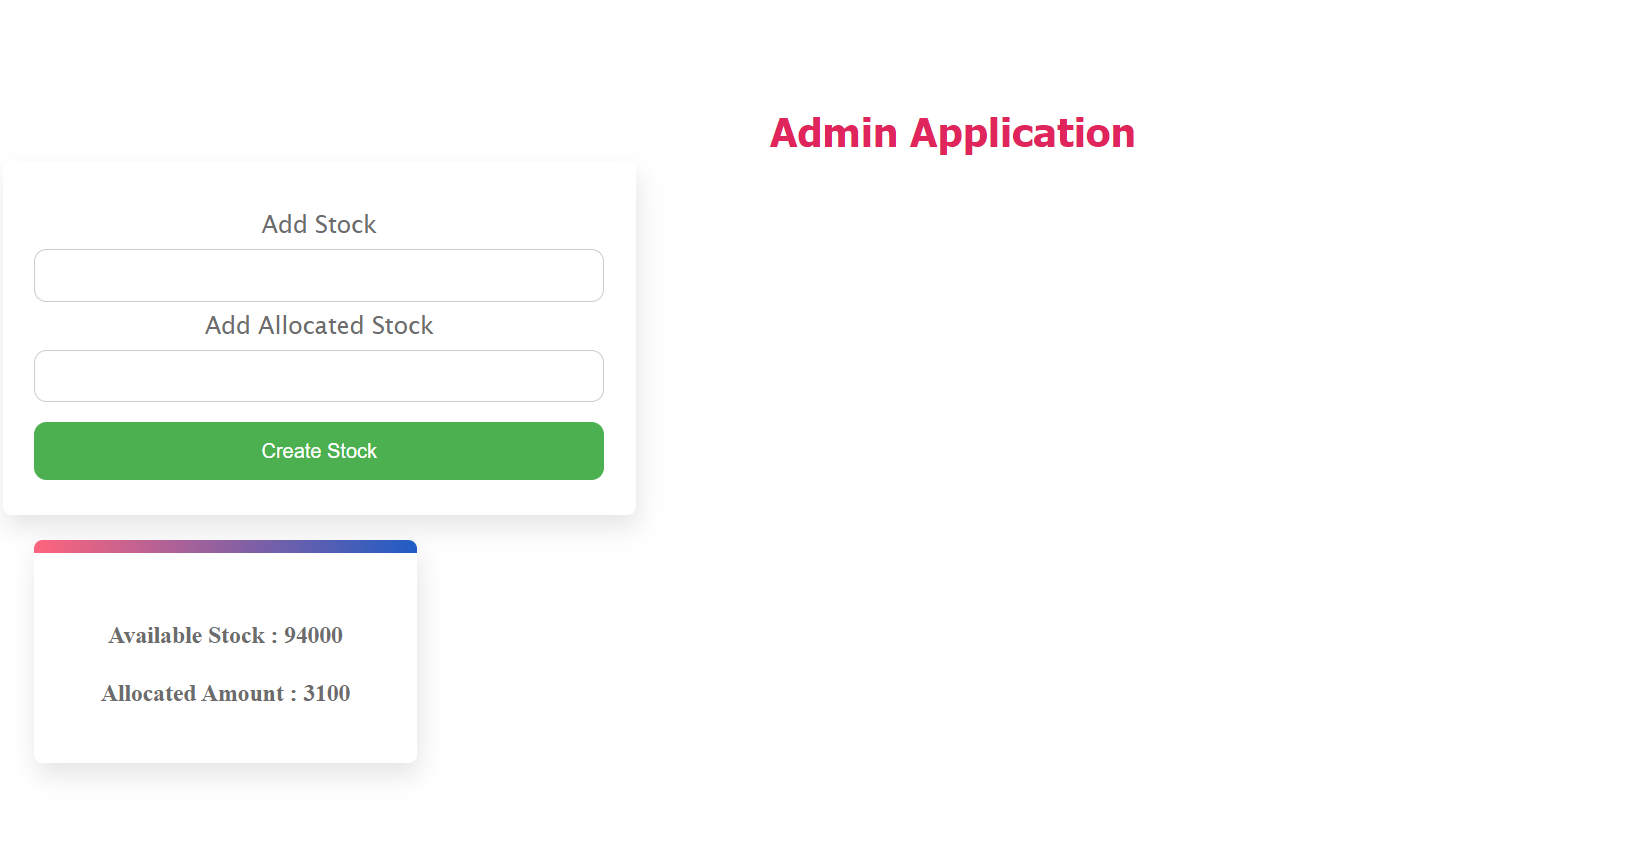
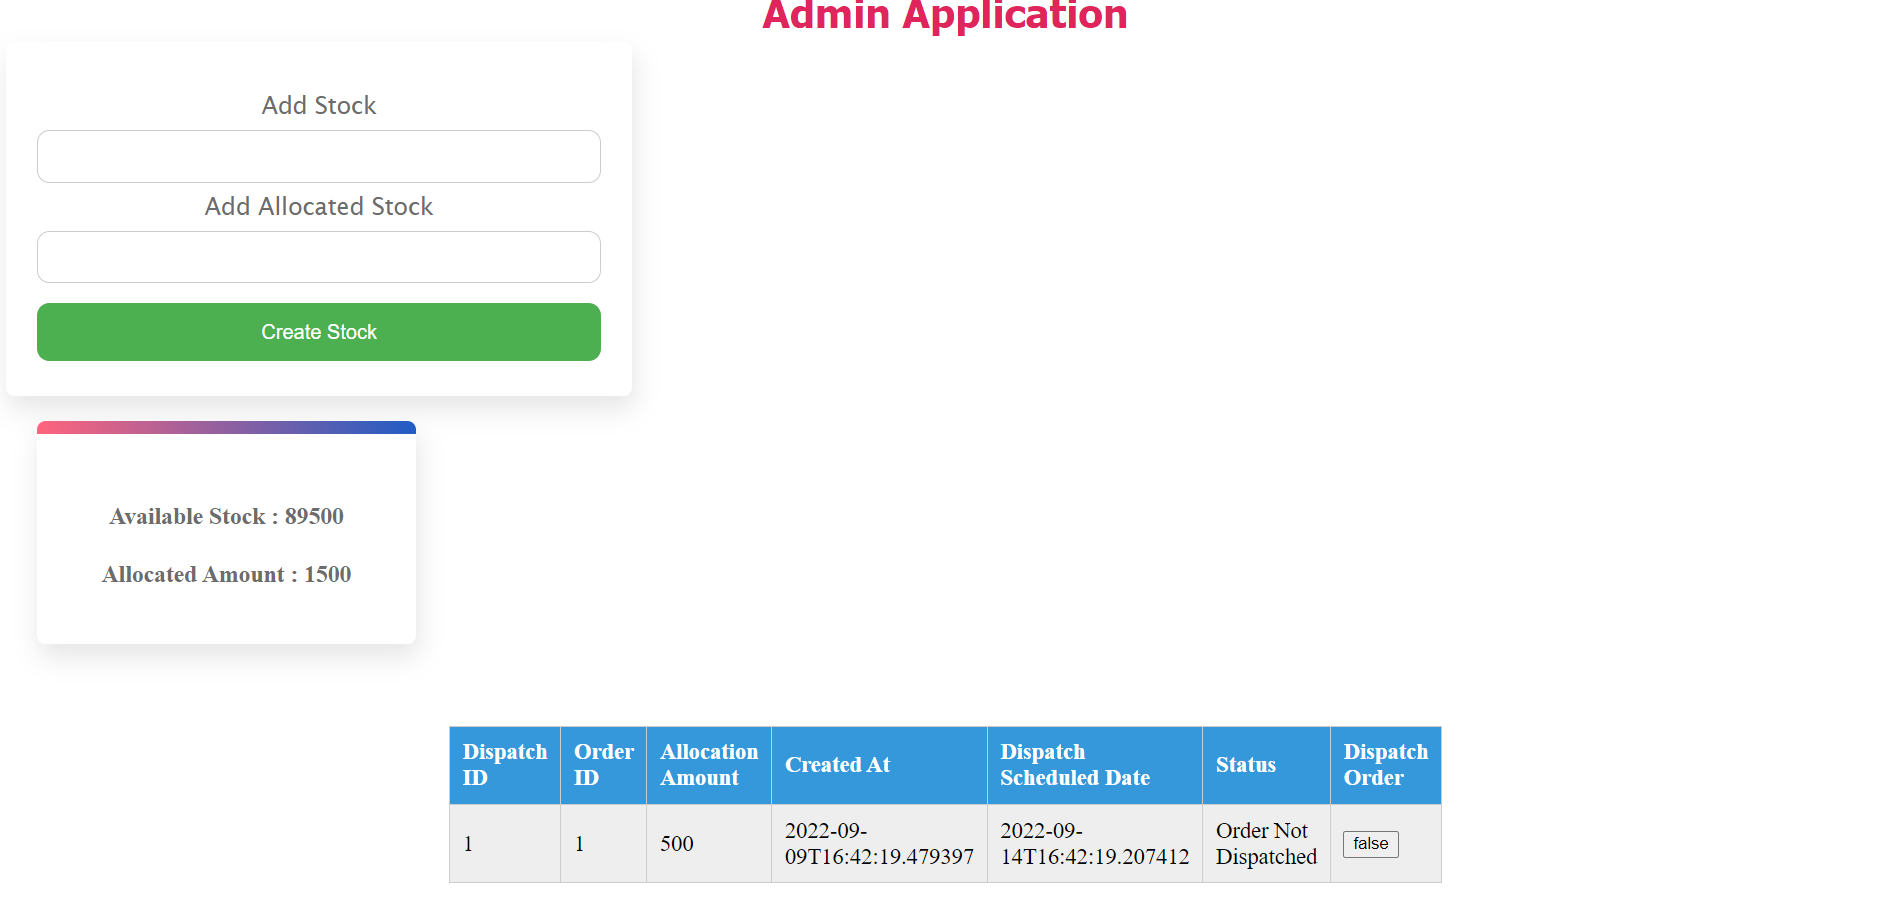
Added Table for See Orders

diff --git a/FrontEndUI/AdminUI/src/app/orders/orders.component.css b/FrontEndUI/AdminUI/src/app/orders/orders.component.css
@@ -1,0 +1,76 @@
+table { 
+	width: 750px; 
+	border-collapse: collapse; 
+	margin:50px auto;
+	}
+
+/* Zebra striping */
+tr:nth-of-type(odd) { 
+	background: #eee; 
+	}
+
+th { 
+	background: #3498db; 
+	color: white; 
+	font-weight: bold; 
+	}
+
+td, th { 
+	padding: 10px; 
+	border: 1px solid #ccc; 
+	text-align: left; 
+	font-size: 18px;
+	}
+
+/* 
+Max width before this PARTICULAR table gets nasty
+This query will take effect for any screen smaller than 760px
+and also iPads specifically.
+*/
+@media 
+only screen and (max-width: 760px),
+(min-device-width: 768px) and (max-device-width: 1024px)  {
+
+	table { 
+	  	width: 100%; 
+	}
+
+	/* Force table to not be like tables anymore */
+	table, thead, tbody, th, td, tr { 
+		display: block; 
+	}
+	
+	/* Hide table headers (but not display: none;, for accessibility) */
+	thead tr { 
+		position: absolute;
+		top: -9999px;
+		left: -9999px;
+	}
+	
+	tr { border: 1px solid #ccc; }
+	
+	td { 
+		/* Behave  like a "row" */
+		border: none;
+		border-bottom: 1px solid #eee; 
+		position: relative;
+		padding-left: 50%; 
+	}
+
+	td:before { 
+		/* Now like a table header */
+		position: absolute;
+		/* Top/left values mimic padding */
+		top: 6px;
+		left: 6px;
+		width: 45%; 
+		padding-right: 10px; 
+		white-space: nowrap;
+		/* Label the data */
+		content: attr(data-column);
+
+		color: #000;
+		font-weight: bold;
+	}
+
+}

diff --git a/FrontEndUI/AdminUI/src/app/orders/orders.component.ts b/FrontEndUI/AdminUI/src/app/orders/orders.component.ts
@@ -1,0 +1,35 @@
+import { HttpClient } from '@angular/common/http';
+import { Component, OnInit } from '@angular/core';
+
+@Component({
+  selector: 'app-orders',
+  templateUrl: './orders.component.html',
+  styleUrls: ['./orders.component.css']
+})
+export class OrdersComponent implements OnInit {
+
+  orders?: any[];;
+  isdispatch: boolean = true;
+  // http2?:HttpClient;
+
+  constructor(private http: HttpClient){
+    
+    http.get<any>('http://localhost:8083/api/v1/dispatch/get-all').subscribe(response =>{
+      this.orders = response;
+      // stock = this.stocks[0];
+      // console.log(this.orders);
+    });
+  }
+
+  updateOrder(id: HTMLTableCellElement){
+    let post = {isdispatch:this.isdispatch,id:id};
+    console.log(post);
+    this.http.post('http://localhost:8083/api/v1/dispatch/update-dispatch',post).subscribe(response => {
+      console.log(response);
+    });
+  }
+
+  ngOnInit(): void {
+  }
+
+}

diff --git a/FrontEndUI/AdminUI/src/app/orders/orders.component.html b/FrontEndUI/AdminUI/src/app/orders/orders.component.html
@@ -1,0 +1,24 @@
+<table>
+    <thead>
+      <tr>
+        <th>Dispatch ID</th>
+        <th>Order ID</th>
+        <th>Allocation Amount</th>
+        <th>Created At</th>
+        <th>Dispatch Scheduled Date</th>
+        <th>Status</th>
+        <th>Dispatch Order</th>
+      </tr>
+    </thead>
+    <tbody>
+      <tr *ngFor="let order of orders">
+        <td data-column="Dispatch ID">{{order.dispatchId}}</td>
+        <td data-column="Order ID" #orderId>{{order.orderId}}</td>
+        <td data-column="Allocation Amount">{{order.allocAmount}}</td>
+        <td data-column="Created At">{{order.createdAt}}</td>
+        <td data-column="Dispatch Scheduled Date">{{order.dispatchAt}}</td>
+        <td data-column="Status">{{order.status}}</td>
+        <td data-column="Dispatch Order"><button (click)="updateOrder(order.orderId)">{{order.isDispatched}}</button></td>
+      </tr>
+    </tbody>
+  </table>

diff --git a/FrontEndUI/AdminUI/src/app/orders/orders.component.spec.ts b/FrontEndUI/AdminUI/src/app/orders/orders.component.spec.ts
@@ -1,0 +1,23 @@
+import { ComponentFixture, TestBed } from '@angular/core/testing';
+
+import { OrdersComponent } from './orders.component';
+
+describe('OrdersComponent', () => {
+  let component: OrdersComponent;
+  let fixture: ComponentFixture<OrdersComponent>;
+
+  beforeEach(async () => {
+    await TestBed.configureTestingModule({
+      declarations: [ OrdersComponent ]
+    })
+    .compileComponents();
+
+    fixture = TestBed.createComponent(OrdersComponent);
+    component = fixture.componentInstance;
+    fixture.detectChanges();
+  });
+
+  it('should create', () => {
+    expect(component).toBeTruthy();
+  });
+});

diff --git a/FrontEndUI/AdminUI/src/app/app.module.ts b/FrontEndUI/AdminUI/src/app/app.module.ts
@@ -7,12 +7,14 @@ import { AppComponent } from './app.component';
 import { StockComponent } from './stock/stock.component';
 import { AddStockComponent } from './add-stock/add-stock.component';
 import { FormsModule } from '@angular/forms';
+import { OrdersComponent } from './orders/orders.component';
 
 @NgModule({
   declarations: [
     AppComponent,
     StockComponent,
     AddStockComponent,
+    OrdersComponent,
   ],
   imports: [
     BrowserModule,

diff --git a/FrontEndUI/AdminUI/src/app/stock/stock.component.ts b/FrontEndUI/AdminUI/src/app/stock/stock.component.ts
@@ -9,8 +9,7 @@ import { Component, OnInit } from '@angular/core';
 })
 export class StockComponent implements OnInit {
 
-  stocks?: any[];
-  title = "List of Orders";
+  stocks?: any[];;
 
   constructor(http: HttpClient){
     

diff --git a/FrontEndUI/AdminUI/src/app/app.component.html b/FrontEndUI/AdminUI/src/app/app.component.html
@@ -6,4 +6,5 @@
   <div>
     <app-stock></app-stock>
   </div>
+  <app-orders></app-orders>
 </div>

diff --git a/GasStationApp/dispatch/src/main/java/com/faznifarook/dispatch/DispatchService.java b/GasStationApp/dispatch/src/main/java/com/faznifarook/dispatch/DispatchService.java
@@ -4,18 +4,21 @@ import com.faznifarook.dispatch.entity.Dispatch;
 import com.faznifarook.dispatch.entity.Schedule;
 import com.google.gson.Gson;
 import lombok.AllArgsConstructor;
-import org.springframework.context.annotation.Bean;
+import lombok.extern.slf4j.Slf4j;
 import org.springframework.kafka.annotation.KafkaListener;
 import org.springframework.stereotype.Service;
 
 import java.time.LocalDateTime;
 import java.util.List;
+import java.util.Optional;
 
 @Service
 @AllArgsConstructor
+@Slf4j
 public class DispatchService {
 //    todo: Need To Find a Way To make the Order Dispatch on the Scheduled date
     private final DispatchRepository dispatchRepository;
+//    private final  DispatchOrderRequest dispatchOrderRequest;
 
     @KafkaListener(topics = "thirdTopic", groupId = "groupId")
     public void dispatchOrder(String data){
@@ -54,5 +57,21 @@ public class DispatchService {
         }else {
             return "Order Not Dispatched";
         }
+    }
+
+    public void dispatchOrderAdmin(DispatchOrderRequest dispatchOrderRequest) {
+//        if(dispatchOrderRequest.isdispatch() == true){
+//            Optional<Dispatch> dt = dispatchRepository.findById(dispatchOrderRequest.id());
+//            Dispatch dispatch = dt.get();
+//            Dispatch dispatch = Dispatch.builder()
+//                    .status("Order Dispatched")
+//                    .build();
+//            dispatch.setStatus("Order Dispatched");
+//            dispatch.setIsDispatched(true);
+            log.info("dispatch",dispatchOrderRequest);
+//            dispatchRepository.save(dispatch);
+//            return "Order Dispatched";
+//        }
+
     }
 }

diff --git a/GasStationApp/dispatch/src/main/java/com/faznifarook/dispatch/DispatchController.java b/GasStationApp/dispatch/src/main/java/com/faznifarook/dispatch/DispatchController.java
@@ -1,0 +1,36 @@
+package com.faznifarook.dispatch;
+
+import com.faznifarook.dispatch.entity.Dispatch;
+import lombok.AllArgsConstructor;
+import lombok.extern.slf4j.Slf4j;
+import org.springframework.context.annotation.Bean;
+import org.springframework.web.bind.annotation.*;
+
+import java.util.List;
+import java.util.Optional;
+
+@Slf4j
+@RestController
+@RequestMapping("api/v1/dispatch")
+@AllArgsConstructor
+public class DispatchController {
+    private final DispatchRepository dispatchRepository;
+    private final DispatchService dispatchService;
+
+    @CrossOrigin(origins = "http://localhost:4201")
+    @PostMapping("/update-dispatch")
+    public void placeOrder(@RequestBody DispatchOrderRequest dispatchOrderRequest){
+        log.info("New Order has been Placed {}",dispatchOrderRequest.id());
+//        Optional<Dispatch> dt = dispatchRepository.findById(dispatchOrderRequest.id());
+//        Dispatch dispatch = dt.get();
+//        Integer id = dispatchOrderRequest.id();
+//        Boolean isDispatch = dispatchOrderRequest.isdispatch();
+        dispatchService.dispatchOrderAdmin(dispatchOrderRequest);
+    }
+
+    @CrossOrigin(origins = "http://localhost:4201")
+    @GetMapping("/get-all")
+    public List<Dispatch> getOrders(){
+        return dispatchRepository.findAll();
+    }
+}

diff --git a/GasStationApp/dispatch/src/main/java/com/faznifarook/dispatch/DispatchOrderRequest.java b/GasStationApp/dispatch/src/main/java/com/faznifarook/dispatch/DispatchOrderRequest.java
@@ -1,0 +1,4 @@
+package com.faznifarook.dispatch;
+
+public record DispatchOrderRequest(Boolean isdispatch,Integer id) {
+}
